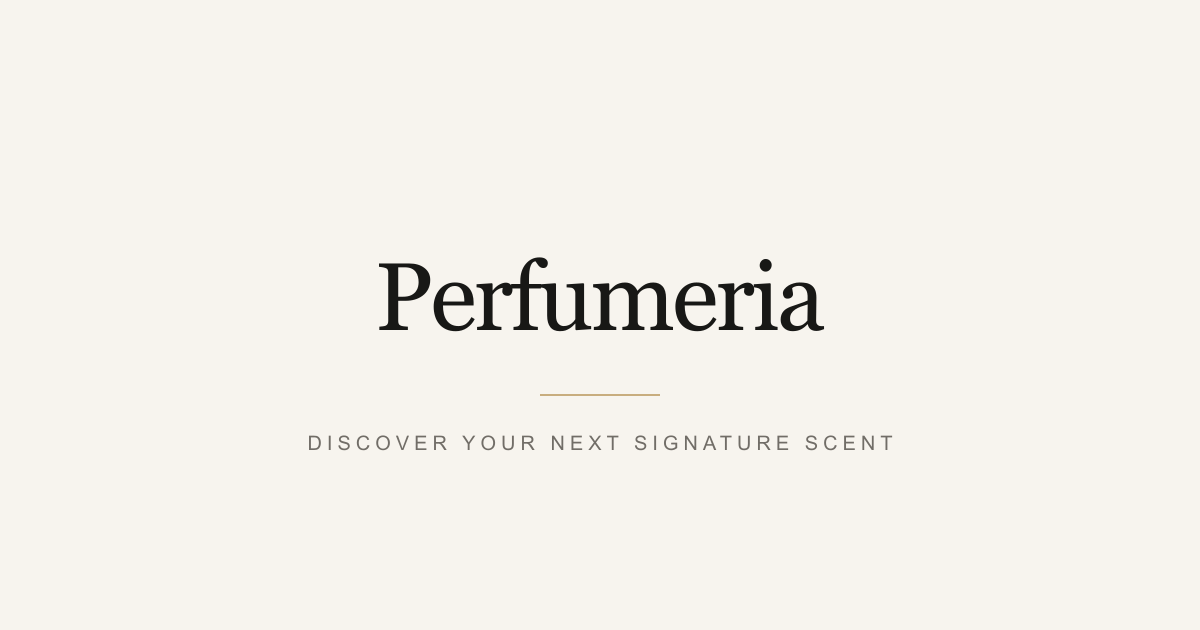
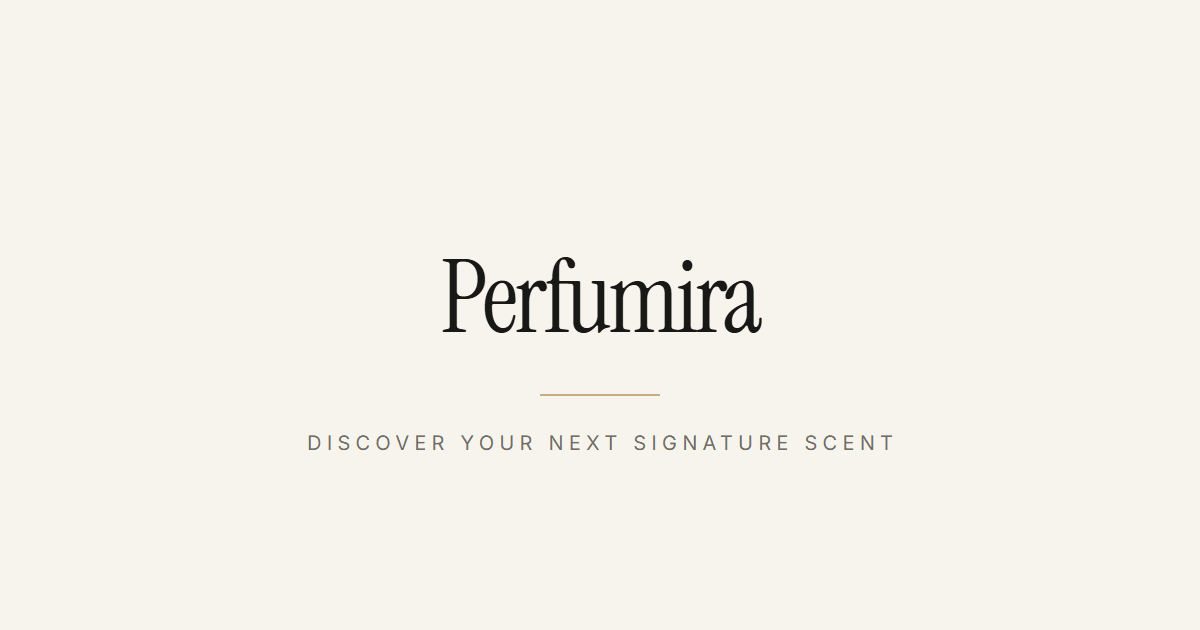
Show the Perfumira name in the social preview image
Shared links previewed "Perfumeria", the brand's old name. The image keeps
its composition (ivory ground, wordmark, the gold rule, the same tagline in
the same place) and now sets "Perfumira" in the site's wordmark face,
Instrument Serif, as the header and startup screen do. It remains a stand-in
until the owner supplies a designed social image.

(cherry picked from commit 0ab0c740a35edbf33c1551ef56bfbc752821c488)

Changed region(s): [[0.3083, 0.3921, 0.6783, 0.5429], [0.2467, 0.6937, 0.74, 0.7238]]

diff --git a/index.html b/index.html
@@ -106,7 +106,9 @@
       rel="stylesheet"
       href="https://fonts.googleapis.com/css2?family=Instrument+Serif:ital@0;1&family=Inter:wght@400;500;600&display=swap"
     />
-    <!-- PLACEHOLDER icon and social image: replace with approved brand assets. -->
+    <!-- PLACEHOLDER icon: replace with the approved Perfumira mark. The social
+         image is the site wordmark on ivory (as the startup screen) until the
+         owner supplies a designed one. -->
     <link rel="icon" type="image/svg+xml" href="/favicon.svg" />
     <meta property="og:type" content="website" />
     <meta property="og:site_name" content="Perfumira" />
